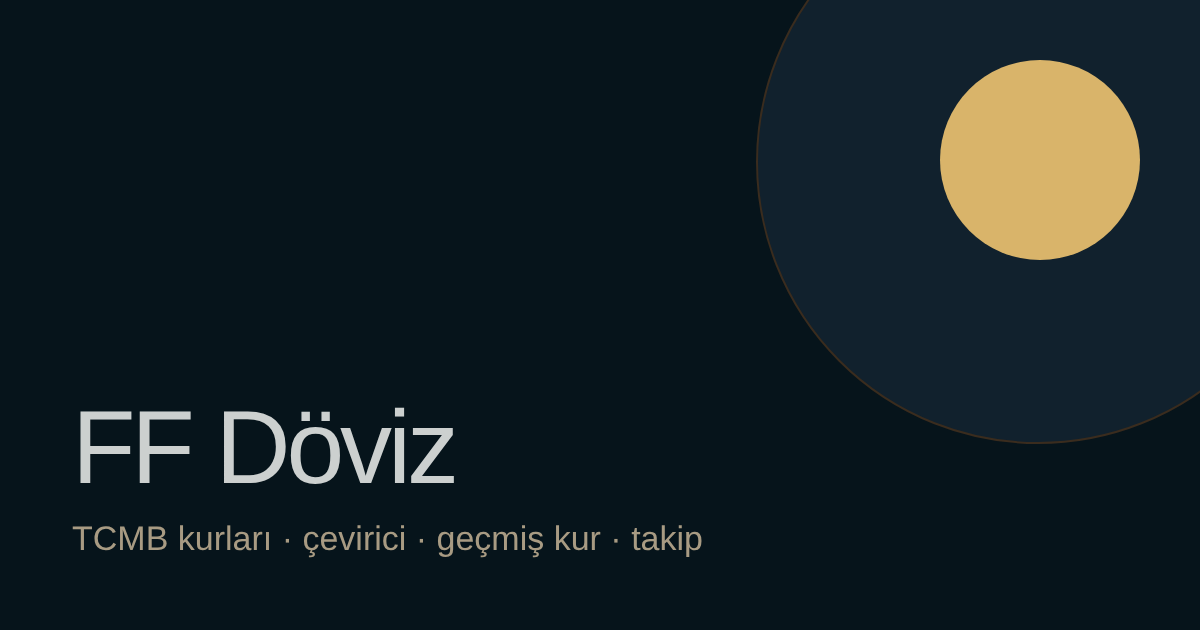
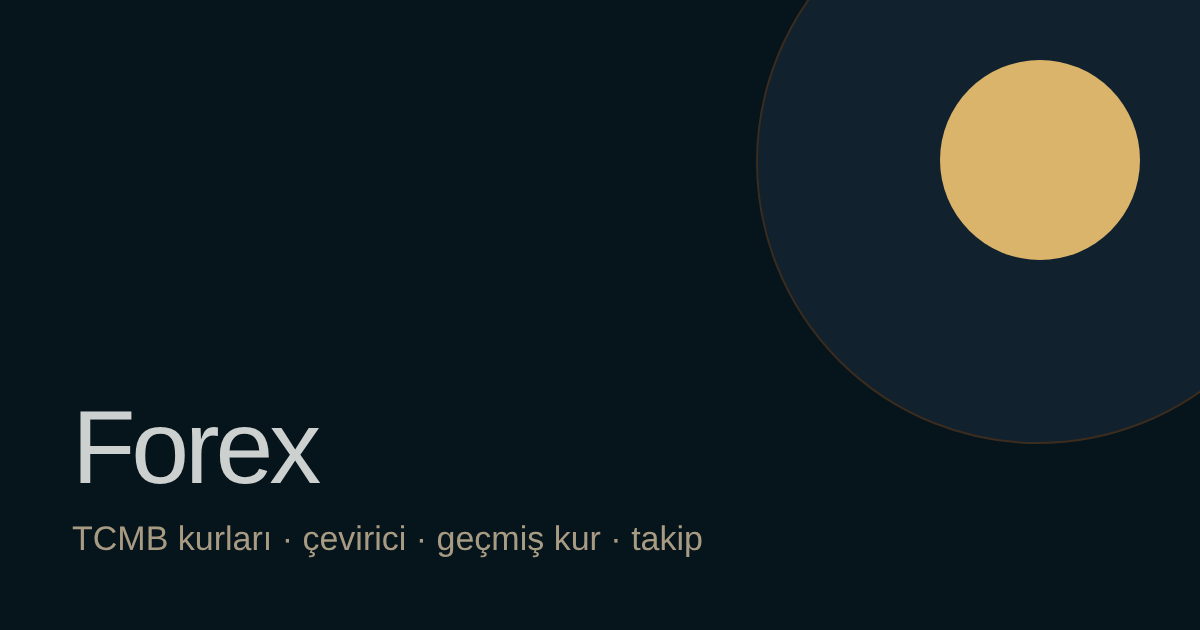
forex2.0

Changed region(s): [[0.0925, 0.6333, 0.4008, 0.7841]]

diff --git a/api/uyari.js b/api/uyari.js
@@ -34,7 +34,7 @@ export default async function handler(req, res) {
     await komut(['INCR', eKey]); await komut(['EXPIRE', eKey, SURE_GUN * 86400]);
     const onayUrl = `${ORIGIN()}/api/onay?id=${id}&t=${onayToken}`;
     const ozetMetin = tur === 'hedef' ? `${kod}/TL ${yon === 'altina' ? 'altına inerse' : 'üstüne çıkarsa'} ${deger} ₺` : `${kod}/TL kuru ${baz} ₺ düzeyinden %${deger} ${yon === 'ustu' ? 'artarsa' : yon === 'altina' ? 'azalırsa' : 'artarsa ya da azalırsa'}`;
-    await epostaGonder({ to: eposta, subject: 'Kur uyarınızı onaylayın', text: `FF Döviz kur uyarısı: ${ozetMetin}.\n\nOnaylamak için: ${onayUrl}\n\nBu e-postayı siz istemediyseniz yok sayın; onaylanmayan kayıt silinir.`, html: `<p>FF Döviz kur uyarısı: <b>${kacis(ozetMetin)}</b>.</p><p><a href="${onayUrl}">Uyarıyı onayla</a></p><p style="color:#666;font-size:13px">Bu e-postayı siz istemediyseniz yok sayın; onaylanmayan kayıt ${SURE_GUN} gün içinde silinir.</p>` });
+    await epostaGonder({ to: eposta, subject: 'Kur uyarınızı onaylayın', text: `Forex kur uyarısı: ${ozetMetin}.\n\nOnaylamak için: ${onayUrl}\n\nBu e-postayı siz istemediyseniz yok sayın; onaylanmayan kayıt silinir.`, html: `<p>Forex kur uyarısı: <b>${kacis(ozetMetin)}</b>.</p><p><a href="${onayUrl}">Uyarıyı onayla</a></p><p style="color:#666;font-size:13px">Bu e-postayı siz istemediyseniz yok sayın; onaylanmayan kayıt ${SURE_GUN} gün içinde silinir.</p>` });
     return json(res, 200, { tamam: true, mesaj: 'Onay bağlantısı e-posta adresinize gönderildi.' });
   } catch (e) {
     console.error('uyari hatasi', e.message);

diff --git a/api/_ortak.js b/api/_ortak.js
@@ -33,6 +33,6 @@ export async function hizSiniri(anahtar, sinir, sn) {
 export function json(res, kod, nesne) { res.statusCode = kod; res.setHeader('Content-Type', 'application/json; charset=utf-8'); res.setHeader('Cache-Control', 'no-store'); res.end(JSON.stringify(nesne)); }
 export function sayfaYanit(res, kod, baslik, metin) {
   res.statusCode = kod; res.setHeader('Content-Type', 'text/html; charset=utf-8'); res.setHeader('Cache-Control', 'no-store');
-  res.end(`<!doctype html><html lang="tr"><meta charset="utf-8"><meta name="viewport" content="width=device-width,initial-scale=1"><meta name="robots" content="noindex"><title>${kacis(baslik)} | FF Döviz</title><body style="font:18px/1.6 system-ui,sans-serif;max-width:560px;margin:15vh auto;padding:0 20px;background:#0F0B08;color:#E4D5B7"><h1 style="font-weight:300">${kacis(baslik)}</h1><p>${kacis(metin)}</p><p><a style="color:#D4E27A" href="${ORIGIN()}/uyarilar/">Uyarılara dön</a></p></body></html>`);
+  res.end(`<!doctype html><html lang="tr"><meta charset="utf-8"><meta name="viewport" content="width=device-width,initial-scale=1"><meta name="robots" content="noindex"><title>${kacis(baslik)} | Forex</title><body style="font:18px/1.6 system-ui,sans-serif;max-width:560px;margin:15vh auto;padding:0 20px;background:#0F0B08;color:#E4D5B7"><h1 style="font-weight:300">${kacis(baslik)}</h1><p>${kacis(metin)}</p><p><a style="color:#D4E27A" href="${ORIGIN()}/uyarilar/">Uyarılara dön</a></p></body></html>`);
 }
 export const kayitAnahtar = id => `uyari:${id}`;

diff --git a/public/assets/js/cevirici.js b/public/assets/js/cevirici.js
@@ -71,7 +71,7 @@ export async function cevirici(kok) {
   $$('[data-hizli]', kok).forEach(b => b.addEventListener('click', () => { tutar.value = sayiSerbest(Number(b.dataset.hizli), 0); yon = 'ileri'; tetik(); gecikmeli(); }));
   chip.addEventListener('click', e => { const b = e.target.closest('[data-k]'); if (!b) return; const k = b.dataset.k; secili.has(k) ? secili.delete(k) : secili.add(k); b.setAttribute('aria-pressed', secili.has(k)); tetik(); });
   $('[data-kopyala]', kok).addEventListener('click', () => kopyala($('.buyuk-sonuc', kok).textContent));
-  $('[data-paylas]', kok).addEventListener('click', () => paylas({ baslik: 'FF Döviz hesabı', metin: $('.buyuk-sonuc', kok).textContent, url: location.href }));
+  $('[data-paylas]', kok).addEventListener('click', () => paylas({ baslik: 'Forex hesabı', metin: $('.buyuk-sonuc', kok).textContent, url: location.href }));
   $('[data-sepet]', kok).addEventListener('click', () => { const s = kok._son; if (!s || kaynak.value === 'TRY') return toast('Sepete yalnızca döviz eklenir', 'hata'); sepet.ekle(kaynak.value, s.girdi); toast(`${sayiSerbest(s.girdi, 2)} ${kaynak.value} sepete eklendi`); });
   $('[data-csv]', kok).addEventListener('click', () => {
     const r = kok._cokluSatir || [], s = kok._son;

diff --git a/public/assets/js/rapor.js b/public/assets/js/rapor.js
@@ -12,7 +12,7 @@ if (!r) {
   kok.innerHTML = `
     <div class="yazdirma-gizle eylemler" style="margin-bottom:20px"><button class="dugme" type="button" id="yazdir">PDF olarak kaydet / yazdır</button><a class="dugme ikincil" href="javascript:history.back()">Geri dön</a></div>
     ${r.ornek ? '<p class="not-kutu" style="margin-bottom:16px"><b>Örnek veri.</b> Bu raporun kurları gerçek TCMB verisi değildir.</p>' : ''}
-    <p class="kucuk soluk">FF Döviz · ffapplabs.com</p>
+    <p class="kucuk soluk">Forex · ffapplabs.com</p>
     <h1>${kacis(r.baslik)}</h1>
     <p class="soluk">Oluşturulma: ${kacis(olusturma)} · Veri tarihi: ${kacis(tarihYaz(r.veriTarihi, { gun: true }))}</p>
     ${r.ozet?.length ? `<table><tbody>${r.ozet.map(([k, v]) => `<tr><th scope="row" style="width:40%">${kacis(k)}</th><td>${kacis(v)}</td></tr>`).join('')}</tbody></table>` : ''}
@@ -26,5 +26,5 @@ if (!r) {
     const kap = $('#rg');
     grafik(kap, { seriler: [{ ad: r.grafik.baslik, renk: 'var(--seri1)', noktalar: r.grafik.noktalar }], yaz: v => sayiYaz(v, 4), yukseklik: 240, ad: r.grafik.baslik });
   }
-  document.title = r.baslik + ' | FF Döviz';
+  document.title = r.baslik + ' | Forex';
 }

diff --git a/public/assets/doviz.css b/public/assets/doviz.css
@@ -1,4 +1,4 @@
-/* FF Döviz · tek stil dosyası. Renk ve ölçü kararları yalnızca :root belirteçlerinden gelir. */
+/* Forex · tek stil dosyası. Renk ve ölçü kararları yalnızca :root belirteçlerinden gelir. */
 @font-face{font-family:"Work Sans";font-style:normal;font-weight:100 900;font-display:swap;src:url(/assets/fonts/work-sans-latin-ext-wght-normal.woff2) format("woff2");unicode-range:U+0100-02BA,U+02BD-02C5,U+02C7-02CC,U+02CE-02D7,U+02DD-02FF,U+0304,U+0308,U+0329,U+1D00-1DBF,U+1E00-1E9F,U+1EF2-1EFF,U+2020,U+20A0-20AB,U+20AD-20C0,U+2113,U+2C60-2C7F,U+A720-A7FF}
 @font-face{font-family:"Work Sans";font-style:normal;font-weight:100 900;font-display:swap;src:url(/assets/fonts/work-sans-latin-wght-normal.woff2) format("woff2");unicode-range:U+0000-00FF,U+0131,U+0152-0153,U+02BB-02BC,U+02C6,U+02DA,U+02DC,U+0304,U+0308,U+0329,U+2000-206F,U+20AC,U+2122,U+2191,U+2193,U+2212,U+2215,U+FEFF,U+FFFD}
 

diff --git a/public/assets/js/alarm.js b/public/assets/js/alarm.js
@@ -23,7 +23,7 @@ export function kontrolEt(son, birim) {
     const baslik = `${alarmMetni(a, birim)}: şimdi ${kurYaz(kur)} ₺`;
     toast(baslik);
     if (a.tarayici && 'Notification' in window && Notification.permission === 'granted') {
-      try { new Notification('FF Döviz kur uyarısı', { body: `${baslik} (TCMB, ${tarihYaz(son.tarih)})`, icon: '/assets/icon-512.png', tag: a.id }); } catch { /* bazı tarayıcılar yalnızca hizmet işçisinden izin verir */ }
+      try { new Notification('Forex kur uyarısı', { body: `${baslik} (TCMB, ${tarihYaz(son.tarih)})`, icon: '/assets/icon-512.png', tag: a.id }); } catch { /* bazı tarayıcılar yalnızca hizmet işçisinden izin verir */ }
     }
   }
   return tetiklenen.length;

diff --git a/public/assets/js/ayar.js b/public/assets/js/ayar.js
@@ -1,6 +1,6 @@
 // Tek yerden ayar. Boş bırakılan alanlar özelliği kapatır; sitede sahte değer gösterilmez.
 export const AYAR = {
-  site: 'FF Döviz',
+  site: 'Forex',
   origin: 'https://doviz.ffapplabs.com',   // yayın alan adı (değişirse docs/04-yayina-alma.md)
   anaSite: 'https://ffapplabs.com',
   hub: 'https://hub.ffapplabs.com',

diff --git a/docs/05-borsa-capraz-baglanti.md b/docs/05-borsa-capraz-baglanti.md
@@ -4,7 +4,7 @@ Her sitenin altında diğerinin üç anahtar değeri küçük kartlarla gösteri
 
 Bu sitenin sunduğu sözleşme: `/data/ozet-dis.json`
 ```json
-{ "site": "FF Döviz", "kaynak": "TCMB", "tarih": "2026-10-23", "ornek": false,
+{ "site": "Forex", "kaynak": "TCMB", "tarih": "2026-10-23", "ornek": false,
   "degerler": [ { "kod": "USD", "ad": "ABD Doları", "deger": 39.7040, "degisim": 0.12 }, … 3 adet ] }
 ```
 Borsa sitesi aynı biçimde kendi `/data/ozet-dis.json` dosyasını sunmalı (aynı CORS yaklaşımı: `Access-Control-Allow-Origin: https://doviz.ffapplabs.com`). Hazır olunca `ayar.js` içinde `borsa.hazir = true` yapın. O zamana kadar kartın yerinde "Borsa sitesi hazırlanıyor" notu görünür; uydurma değer gösterilmez.

diff --git a/docs/01-genel-bakis.md b/docs/01-genel-bakis.md
@@ -1,4 +1,4 @@
-# FF Döviz — Genel bakış
+# Forex — Genel bakış
 
 Alım satım yapmayan, TCMB gösterge kurlarına dayanan bir kur sitesi. Google'ın kur kutusundan farkı: çevirmek, geçmişle karşılaştırmak, izlemek, uyarı kurmak ve rapor almak için yan yana araçlar sunması.
 

diff --git a/README.md b/README.md
@@ -1,4 +1,4 @@
-# FF Döviz
+# Forex
 
 TCMB gösterge kurlarıyla çalışan çevirici, geçmiş kur, karşılaştırma, takip, uyarı ve rapor sitesi.
 
